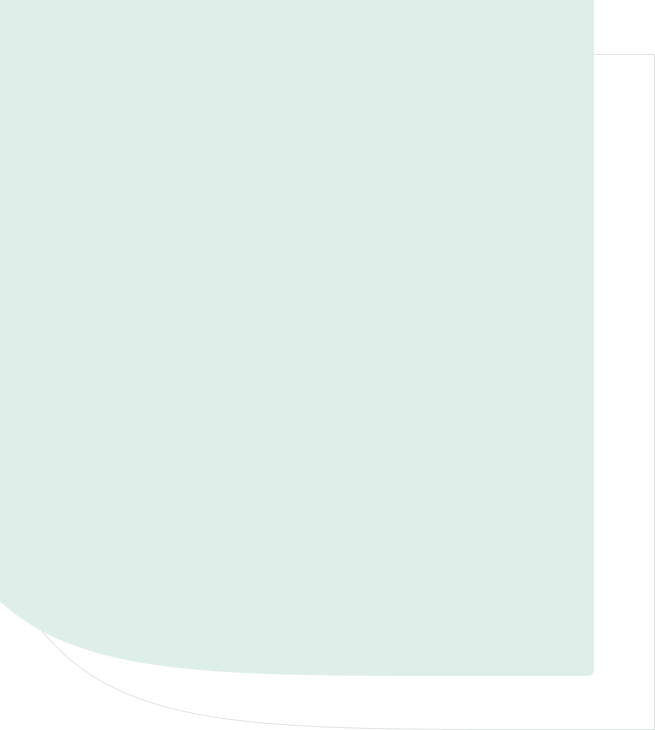
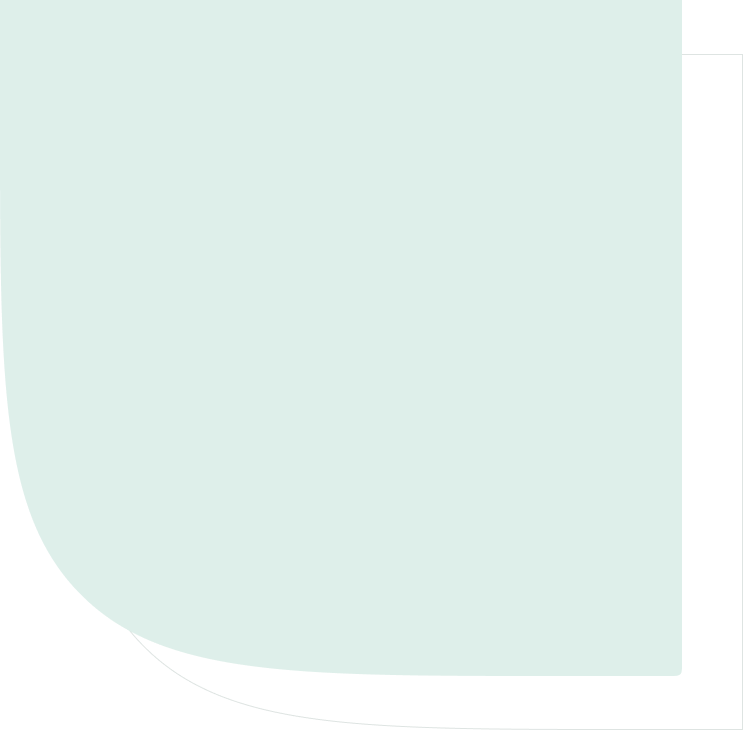
convincers rough draft

Changed region(s): [[0.0, 0.4521, 0.3969, 0.9342], [0.8855, 0.0, 0.916, 0.9342], [0.458, 0.9945, 0.5802, 1.0]]

diff --git a/src/app/home/home.component.scss b/src/app/home/home.component.scss
@@ -1,13 +1,14 @@
 main {
   position: relative;
-  overflow: hidden;
+  // overflow: hidden;
   width: 100%;
   margin: 0;
   padding: 0;
   .heroSection {
     width: 100%;
     height: 100vh;
-    display: relative;
+    position: relative;
+    overflow: hidden;
     background: url("../../assets/Images/hero_background.png");
     background-repeat: no-repeat;
     background-size: 75% 100%;
@@ -92,15 +93,64 @@ main {
   }
   // Convincer section
   .convincer {
-    width: 90%;
-    margin: 1.5rem auto;
+    width: 100%;
+    margin: 2.5rem auto;
     .top_con {
       display: grid;
       grid-template-columns: 40% 1fr;
       height: 85vh;
+      width: 90%;
+      margin: 0 auto;
       .textSection {
         align-self: center;
         width: 80%;
+        h1 {
+          font-size: 32px;
+          color: #1f443a;
+        }
+        p {
+          margin: 2rem 0px !important;
+          width: 110%;
+          font-size: 18px;
+        }
+        a {
+          img {
+            margin: 0px 8px;
+            width: 24px;
+            height: 24px;
+          }
+        }
+      }
+      .imgSection {
+        position: relative;
+        background-image: url(../../assets/Images/convincer_top_background.png);
+        background-size: 75% 100%;
+        background-repeat: no-repeat;
+        background-position: 100% top;
+        display: flex;
+        justify-content: flex-end;
+        align-items: center;
+        .product_image {
+          width: 55%;
+          margin-right: 5rem;
+        }
+        .top_con_pb {
+          top: 30%;
+          left: 40%;
+        }
+      }
+    }
+    .btm_con {
+      display: grid;
+      grid-template-columns: 1fr 45%;
+      height: 85vh;
+      .textSection {
+        align-self: center;
+        width: 80%;
+        h1 {
+          font-size: 32px;
+          color: #1f443a;
+        }
         p {
           margin: 2rem 0px !important;
           width: 90%;
@@ -116,16 +166,17 @@ main {
       }
       .imgSection {
         position: relative;
-        background-image: url(../../assets/Images/convincer_top_background.png);
+        background-image: url(../../assets/Images/convincer_bottom_background.png);
         background-size: 80% 100%;
         background-repeat: no-repeat;
-        background-position: 100% top;
+        background-position: -30% top;
         display: flex;
-        justify-content: flex-end;
-        align-items: center;
+        justify-content: center;
+        align-items: flex-start;
         .product_image {
-          width: 55%;
-          margin-right: 5rem;
+          width: 30%;
+          margin-right: 10rem;
+          height: auto;
         }
         .top_con_pb {
           top: 30%;

diff --git a/src/app/home/home.component.html b/src/app/home/home.component.html
@@ -97,5 +97,25 @@
         </div>
       </div>
     </div>
+    <div class="btm_con">
+      <div class="imgSection">
+        <img
+          src="../../assets/Images/Product images/multi_layer_shelf.png"
+          alt=""
+          class="product_image"
+        />
+      </div>
+      <div class="textSection">
+        <h1>Multi layer Shelf</h1>
+        <p>
+          A great side piece for your offices, work space and sitting room. This
+          affordable and durable shelf allows you to add more layers as you
+          would like.
+        </p>
+        <a href="#" class="cta_btn_style"
+          >Shop Now <img src="../../assets/Images/arrow-right.svg" alt=""
+        /></a>
+      </div>
+    </div>
   </section>
 </main>
